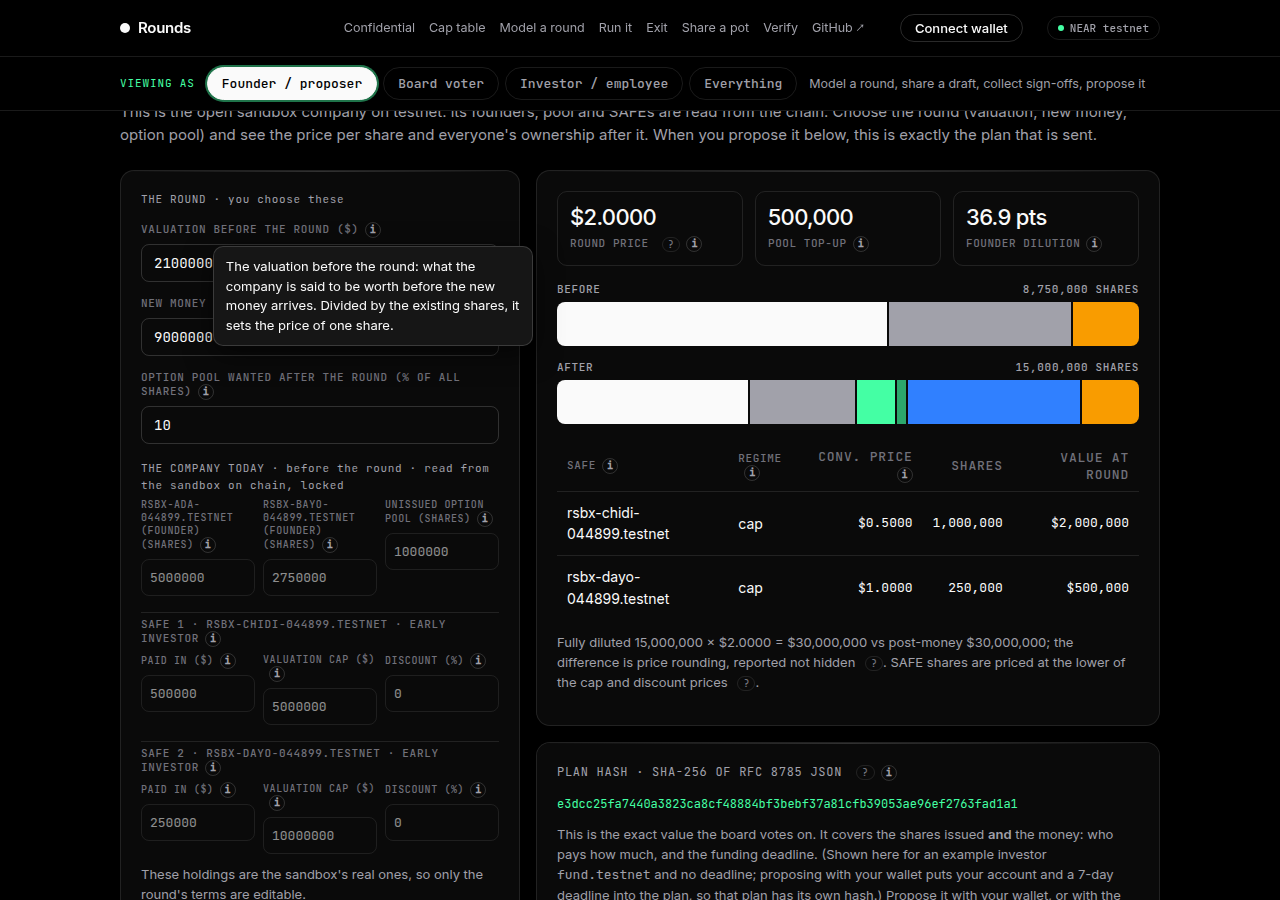
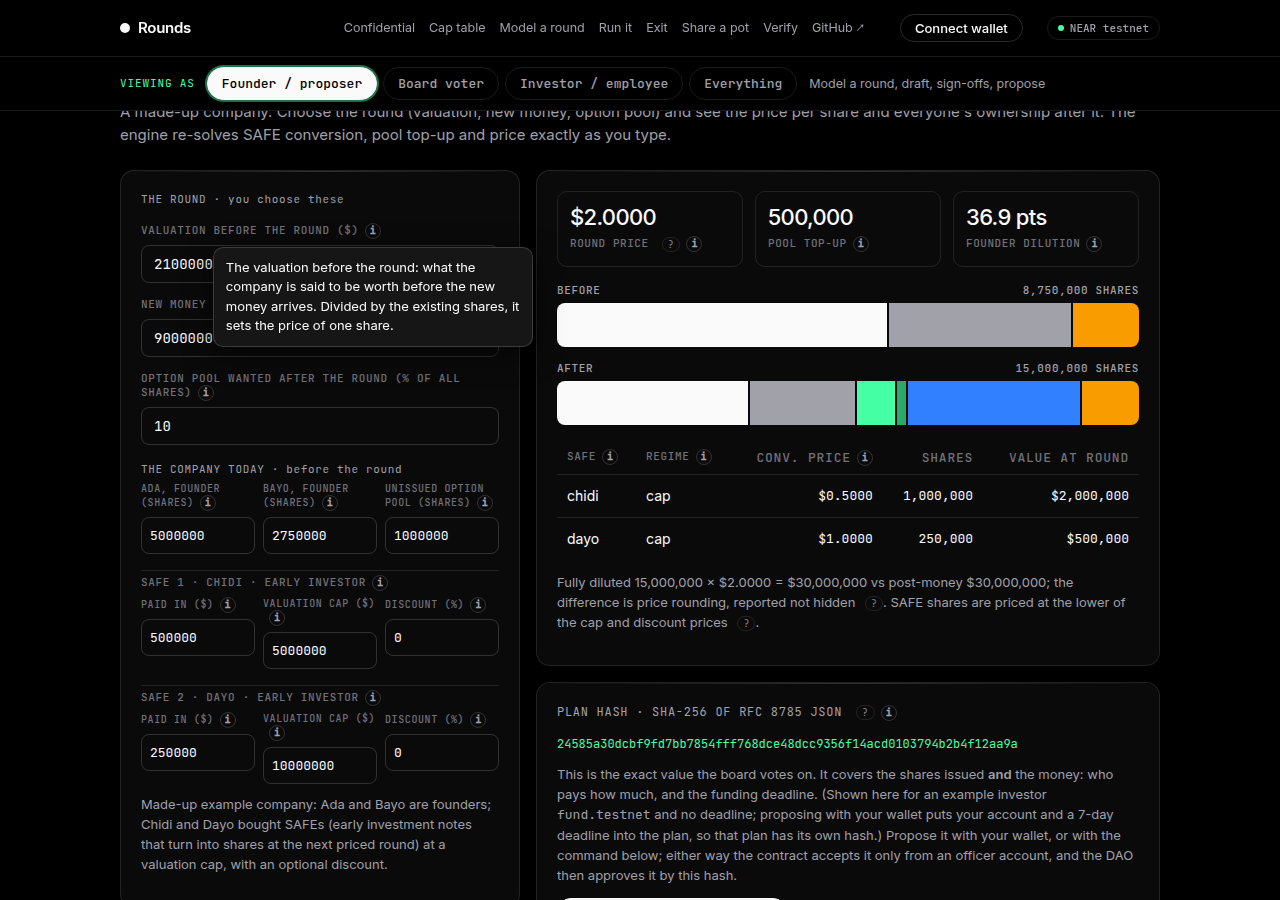
Role bar: Technical proof is a pill switch on the same row, shorter role descriptions so nothing wraps or truncates; README screenshots refreshed

diff --git a/web/src/roles.ts b/web/src/roles.ts
@@ -7,9 +7,9 @@
 import { hint } from "./hints";
 export type Role = "founder" | "board" | "investor" | "all";
 export const ROLES: { id: Role; label: string; hint: string }[] = [
-  { id: "founder", label: "Founder / proposer", hint: "Model a round, share a draft, collect sign-offs, propose it" },
-  { id: "board", label: "Board voter", hint: "Check a proposal and see who gets diluted before you vote" },
-  { id: "investor", label: "Investor / employee", hint: "See your stake, deposit to escrow, claim a payout" },
+  { id: "founder", label: "Founder / proposer", hint: "Model a round, draft, sign-offs, propose" },
+  { id: "board", label: "Board voter", hint: "Check a proposal, see who is diluted, vote" },
+  { id: "investor", label: "Investor / employee", hint: "Your stake, escrow, vesting, payouts" },
   { id: "all", label: "Everything", hint: "The full page, every section" },
 ];
 const CARDS: { id: Role; title: string; who: string; does: string; go: string }[] = [
@@ -35,7 +35,7 @@ export function applyRole(role: Role, root: ParentNode = document) {
   document.getElementById("role-pick")?.classList.toggle("first", !explicit);
   const cur = document.getElementById("rp-cur"); if (cur) cur.innerHTML = explicit || role !== "founder" ? `Viewing as <b>${ROLES.find((r) => r.id === role)?.label}</b>` : "Not chosen yet: showing the founder view";
   window.dispatchEvent(new Event("rounds:role")); // panels that draw their own tabs (the confidential card) follow the view
-  const tech = document.getElementById("tech-wrap"); if (tech) tech.style.display = role === "investor" ? "flex" : "none";
+  const tech = document.getElementById("tech-wrap"); if (tech) tech.style.display = role === "investor" ? "inline-flex" : "none";
 }
 export function setRole(role: Role, userChoice = true) { if (userChoice) { explicit = true; store.set(KEY, role); } applyRole(role); }
 
@@ -46,10 +46,12 @@ export function initRoles() {
   const saved = store.get(KEY); explicit = isRole(saved); current = isRole(saved) ? saved : "founder";
   const bar = document.getElementById("rolebar"); if (!bar) return;
   bar.innerHTML = `<div class="wrap rolebar-in"><span class="mono rb-lab">VIEWING AS</span><div class="rolebtns" role="group" aria-label="Choose your view">${ROLES.map((r) => `<button class="tab" data-role="${r.id}" aria-pressed="false">${r.label}</button>`).join("")}</div><span class="muted" id="role-hint" style="font-size:12.5px"></span>
-    <label id="tech-wrap" class="muted" style="font-size:12.5px;display:none;gap:6px;align-items:center;margin-left:auto"><input type="checkbox" id="tech-toggle" style="width:auto"/> Technical proof</label></div>`;
+    <button type="button" id="tech-wrap" class="tab" role="switch" aria-checked="false" title="Show the hashes, proofs and raw calls behind each number" style="display:none">Technical proof: off</button></div>`;
   bar.querySelectorAll<HTMLButtonElement>("[data-role]").forEach((b) => (b.onclick = () => setRole(b.dataset.role as Role)));
-  const tt = bar.querySelector<HTMLInputElement>("#tech-toggle")!; tt.checked = store.get(TECH) === "1"; document.body.dataset.tech = tt.checked ? "1" : "";
-  tt.onchange = () => { document.body.dataset.tech = tt.checked ? "1" : ""; store.set(TECH, tt.checked ? "1" : "0"); };
+  const tt = bar.querySelector<HTMLButtonElement>("#tech-wrap")!;
+  const setTech = (on: boolean) => { document.body.dataset.tech = on ? "1" : ""; tt.classList.toggle("on", on); tt.setAttribute("aria-checked", String(on)); tt.textContent = `Technical proof: ${on ? "on" : "off"}`; };
+  setTech(store.get(TECH) === "1");
+  tt.onclick = () => { const on = document.body.dataset.tech !== "1"; setTech(on); store.set(TECH, on ? "1" : "0"); };
   const pick = document.getElementById("role-pick");
   if (pick) {
     pick.innerHTML = `<div class="card-h"><span class="mono muted">START HERE · WHO ARE YOU?${hint("roles", "the role choice")}</span><span class="muted" id="rp-cur"></span></div>

diff --git a/web/src/style.css b/web/src/style.css
@@ -151,3 +151,10 @@ body[data-role="investor"][data-tech="1"] .tech{display:block}
 .rb-lab{font-size:11px;color:var(--green);letter-spacing:.08em;white-space:nowrap}
 .rolebtns .tab{font-size:13px;padding:7px 14px}.rolebtns .tab.on{box-shadow:0 0 0 2px rgba(68,255,164,.45)}
 @media (max-width:760px){.rp-grid{grid-template-columns:1fr}}
+
+/* role bar: one row on a wide screen; the Technical proof switch is a pill like the roles and sits at the right */
+.rolebar-in{flex-wrap:nowrap}
+#role-hint{flex:1 1 0;min-width:0;overflow:hidden;text-overflow:ellipsis;white-space:nowrap}
+#tech-wrap{margin-left:auto;flex:none;white-space:nowrap}
+#tech-wrap.on{background:transparent;color:var(--green);border-color:var(--green)}
+@media (max-width:980px){.rolebar-in{flex-wrap:wrap}#role-hint{display:none}#tech-wrap{margin-left:0}}
